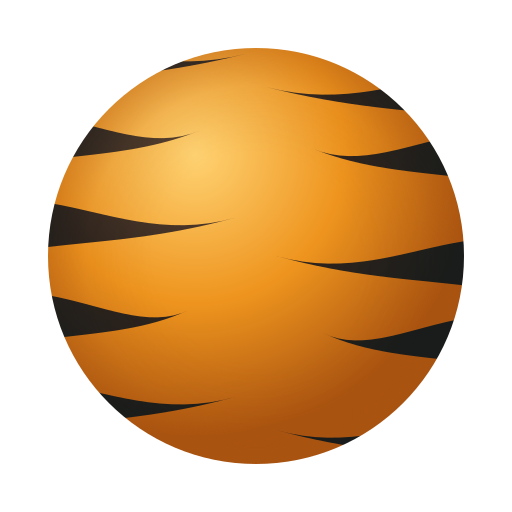
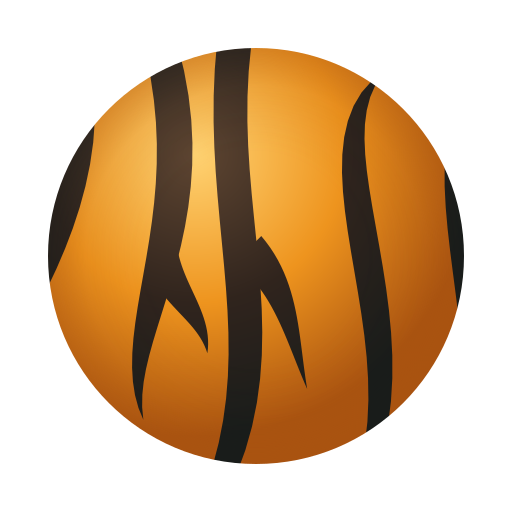
Refine tiger fur with long asymmetric branched stripes

Changed region(s): [[0.0938, 0.0938, 0.5938, 0.9062], [0.5625, 0.1562, 0.9062, 0.8438], [0.5938, 0.8438, 0.6875, 0.875]]

diff --git a/snake-style-config.js b/snake-style-config.js
@@ -1,2 +1,2 @@
 // Generated from the approved template specs. Run tools/export-snake-styles.cjs.
-(function(root){const config={"skins":["klassisk","jordgubbe","basketboll","isbla","rosa","lila","smaragd","regnbage","guld","polkagris","galax","vattenmelon","fotboll","miamisunset","inferno","aurora","hav","lava","obsidian","blackpink","skog","radioaktiv","plasma","clockwork","runorm","prismagodis","skuggmysterium","tidvatten","museumvaktaren","stjarnarkiv","solregent","stjarnhimmel","ghost","kunglig","hv71","eld","tiger","katt"],"rendering":{"minimumOpacity":0.75,"fadePerSegment":0.0125,"toyOutlineWidth":0.025,"toyOutlineOpacity":0.62,"toyShadowBlur":0.16,"toyShadowOffset":0.14,"shadowOpacity":0.48,"pixelShadowBlur":0.7,"pixelShadowOffset":1,"pixelFinalSmoothing":true},"headAttachment":{"center":[0.5,0.5],"radiusX":0.4671875,"radiusY":0.43,"eyes":[[0.3,0.29],[0.7,0.29]],"pixelEyes":[[0.3,0.34],[0.7,0.34]],"rearDecorationAnchors":[[0.17,0.68],[0.83,0.68]],"decorationMinimumY":0.6},"headAccessories":{"kunglig":"crown"},"animalProfiles":{"tiger":"feline","katt":"feline"},"tailAnimations":{"tiger":{"frames":["tail-left","tail-left-soft","tail","tail-right-soft","tail-right"],"periodMs":1400},"katt":{"frames":["tail-left","tail-left-soft","tail","tail-right-soft","tail-right"],"periodMs":1400}},"materialOpacities":{"ghost":0.68},"assetRevisions":{"inferno":2,"radioaktiv":2,"plasma":2,"hv71":4,"tiger":2,"katt":2},"colorCycles":{"regnbage":{"hues":[0,30,55,115,175,220,275],"intervalMs":1400}},"outlineColors":{"klassisk":"#10361d","jordgubbe":"#390d15","basketboll":"#43240f","isbla":"#103747","rosa":"#47233a","lila":"#302046","smaragd":"#12392e","regnbage":"#431919","guld":"#443214","polkagris":"#672036","galax":"#101828","vattenmelon":"#26352a","fotboll":"#252931","miamisunset":"#26314d","inferno":"#683b12","aurora":"#11192d","hav":"#0d3149","lava":"#17131e","obsidian":"#101020","blackpink":"#190f1c","skog":"#182c24","radioaktiv":"#06190f","plasma":"#080f24","clockwork":"#142022","runorm":"#192624","prismagodis":"#392742","skuggmysterium":"#111622","tidvatten":"#102c37","museumvaktaren":"#111c30","stjarnarkiv":"#101d34","solregent":"#552518","stjarnhimmel":"#11152b","ghost":"#1a526f","kunglig":"#261735","hv71":"#ffffff","eld":"#1d1424","tiger":"#30241d","katt":"#514337"},"styles":{"toy":{"frame":512,"headScale":1.12,"bodyScale":1.3608,"pivot":[256,64],"chord":188.76501370751944},"pixel":{"frame":32,"headScale":1.03,"bodyScale":1.3608,"pivot":[16,4],"chord":11}}};if(typeof module!=="undefined"&&module.exports)module.exports=config;else root.SnakeStyleConfig=config;})(typeof globalThis!=="undefined"?globalThis:this);
+(function(root){const config={"skins":["klassisk","jordgubbe","basketboll","isbla","rosa","lila","smaragd","regnbage","guld","polkagris","galax","vattenmelon","fotboll","miamisunset","inferno","aurora","hav","lava","obsidian","blackpink","skog","radioaktiv","plasma","clockwork","runorm","prismagodis","skuggmysterium","tidvatten","museumvaktaren","stjarnarkiv","solregent","stjarnhimmel","ghost","kunglig","hv71","eld","tiger","katt"],"rendering":{"minimumOpacity":0.75,"fadePerSegment":0.0125,"toyOutlineWidth":0.025,"toyOutlineOpacity":0.62,"toyShadowBlur":0.16,"toyShadowOffset":0.14,"shadowOpacity":0.48,"pixelShadowBlur":0.7,"pixelShadowOffset":1,"pixelFinalSmoothing":true},"headAttachment":{"center":[0.5,0.5],"radiusX":0.4671875,"radiusY":0.43,"eyes":[[0.3,0.29],[0.7,0.29]],"pixelEyes":[[0.3,0.34],[0.7,0.34]],"rearDecorationAnchors":[[0.17,0.68],[0.83,0.68]],"decorationMinimumY":0.6},"headAccessories":{"kunglig":"crown"},"animalProfiles":{"tiger":"feline","katt":"feline"},"tailAnimations":{"tiger":{"frames":["tail-left","tail-left-soft","tail","tail-right-soft","tail-right"],"periodMs":1400},"katt":{"frames":["tail-left","tail-left-soft","tail","tail-right-soft","tail-right"],"periodMs":1400}},"materialOpacities":{"ghost":0.68},"assetRevisions":{"inferno":2,"radioaktiv":2,"plasma":2,"hv71":4,"tiger":3,"katt":2},"colorCycles":{"regnbage":{"hues":[0,30,55,115,175,220,275],"intervalMs":1400}},"outlineColors":{"klassisk":"#10361d","jordgubbe":"#390d15","basketboll":"#43240f","isbla":"#103747","rosa":"#47233a","lila":"#302046","smaragd":"#12392e","regnbage":"#431919","guld":"#443214","polkagris":"#672036","galax":"#101828","vattenmelon":"#26352a","fotboll":"#252931","miamisunset":"#26314d","inferno":"#683b12","aurora":"#11192d","hav":"#0d3149","lava":"#17131e","obsidian":"#101020","blackpink":"#190f1c","skog":"#182c24","radioaktiv":"#06190f","plasma":"#080f24","clockwork":"#142022","runorm":"#192624","prismagodis":"#392742","skuggmysterium":"#111622","tidvatten":"#102c37","museumvaktaren":"#111c30","stjarnarkiv":"#101d34","solregent":"#552518","stjarnhimmel":"#11152b","ghost":"#1a526f","kunglig":"#261735","hv71":"#ffffff","eld":"#1d1424","tiger":"#30241d","katt":"#514337"},"styles":{"toy":{"frame":512,"headScale":1.12,"bodyScale":1.3608,"pivot":[256,64],"chord":188.76501370751944},"pixel":{"frame":32,"headScale":1.03,"bodyScale":1.3608,"pivot":[16,4],"chord":11}}};if(typeof module!=="undefined"&&module.exports)module.exports=config;else root.SnakeStyleConfig=config;})(typeof globalThis!=="undefined"?globalThis:this);

diff --git a/skin-templates/runtime-preview.html b/skin-templates/runtime-preview.html
@@ -7,7 +7,7 @@
 *{box-sizing:border-box}body{margin:0;padding:24px;background:#f5f0e4;color:#183b35;font:16px system-ui,sans-serif}main{max-width:1160px;margin:auto}h1{margin:0 0 8px;font-size:26px}p{line-height:1.5}button{font:inherit;padding:8px 14px;border:1px solid #789184;border-radius:10px;background:#fffaf0;color:inherit;cursor:pointer}article{margin:22px 0;padding:20px;border:1px solid #cdd6c9;border-radius:18px;background:#fffaf0}h2{margin:0 0 12px;font-size:23px}.styles{display:grid;grid-template-columns:1fr 1fr;gap:22px}h3{margin:0 0 8px;font-size:16px}canvas{display:block;width:100%;height:auto;background:#e4edde;border-radius:12px;image-rendering:auto}.note{margin:12px 0 0;font-size:13px;color:#456057}@media(max-width:650px){body{padding:12px}.styles{grid-template-columns:1fr}article{padding:14px}}
 </style>
 <main><h1>SifferSnoken · riktiga skinpreviews</h1><p>Samma WebP-filer, former, ögon och svansfästen som i spelet. Utan längdnedtoning; Ghost behåller sin genomskinlighet.</p><button id="pause">Pausa animationen</button> <label id="tailControl" hidden>Svansläge <select id="tailPose"><option value="animated">Animation</option><option value="left">Vänster</option><option value="left-soft">Lite vänster</option><option value="center">Mittläge</option><option value="right-soft">Lite höger</option><option value="right">Höger</option></select></label><div id="previews"></div><p id="status" role="status">Laddar tillgångar…</p></main>
-<script src="../snake-style-config.js?v=snake-styles-25"></script>
+<script src="../snake-style-config.js?v=snake-styles-26"></script>
 <script src="../snake-colors.js?v=snake-styles-4"></script>
 <script src="../snake-headwear-designs.js?v=headwear-3"></script>
 <script src="../snake-headwear.js?v=headwear-3"></script>

diff --git a/skin-templates/headwear-preview.html b/skin-templates/headwear-preview.html
@@ -6,7 +6,7 @@
 *{box-sizing:border-box}body{margin:0;padding:24px;background:#f5f0e4;color:#183b35;font:16px system-ui,sans-serif}main{max-width:1080px;margin:auto}h1{font-size:26px;margin:0 0 10px}p{line-height:1.5}article{background:#fffaf0;border:1px solid #cdd6c9;border-radius:18px;padding:20px;margin:22px 0}h2{margin:0 0 14px}h3{font-size:16px;margin:0 0 8px}.styles{display:grid;grid-template-columns:1fr 1fr;gap:20px}canvas{display:block;width:100%;height:auto;border-radius:12px}label{display:inline-flex;gap:6px;margin-right:14px}@media(max-width:650px){body{padding:12px}.styles{grid-template-columns:1fr}article{padding:14px}}
 </style>
 <main><h1>Alla 30 huvudbonader · passformsprov</h1><p>Klassisk, Jordgubbe och Ghost, i alla fyra riktningar. Samma renderer och fästpunkter som i spelet. Ögon och huvudstorlekar är oförändrade.</p><label><input type="checkbox" id="blink">Visa blinkning</label><label><input type="checkbox" id="off">Utan bonad</label><div id="previews"></div><p id="status">Laddar…</p></main>
-<script src="../snake-style-config.js?v=snake-styles-25"></script>
+<script src="../snake-style-config.js?v=snake-styles-26"></script>
 <script src="../snake-colors.js?v=snake-styles-4"></script>
 <script src="../snake-headwear-designs.js?v=headwear-3"></script>
 <script src="../snake-headwear.js?v=headwear-3"></script>

diff --git a/skin-templates/headwear-gallery.html b/skin-templates/headwear-gallery.html
@@ -4,7 +4,7 @@
 <main><h1>SifferSnoken · alla 30 huvudbonader</h1><p>Modern och Pixelretro · samma huvud och renderer som i spelet.</p>
 <label>Skin <select id="skin"><option value="klassisk">Klassisk</option><option value="jordgubbe">Jordgubbe</option><option value="ghost">Ghost</option></select></label><label>Riktning <select id="direction"><option value="right">Höger</option><option value="up">Upp</option><option value="down">Ned</option><option value="left">Vänster</option></select></label><label><input type="checkbox" id="blink">Blinkning</label>
 <h2>Modern · mjuka leksaksformer</h2><canvas id="toy" width="1120" height="760"></canvas><h2>Pixelretro</h2><canvas id="pixel" width="1120" height="760"></canvas><p id="status">Laddar…</p></main>
-<script src="../snake-style-config.js?v=snake-styles-25"></script><script src="../snake-colors.js?v=snake-styles-4"></script>
+<script src="../snake-style-config.js?v=snake-styles-26"></script><script src="../snake-colors.js?v=snake-styles-4"></script>
 <script src="../snake-headwear-designs.js?v=headwear-3"></script><script src="../snake-headwear.js?v=headwear-3"></script><script src="../snake-styles.js?v=snake-styles-11"></script>
 <script>
 const renderer=SnakeStyles.createRenderer({assetPrefix:'../'});

diff --git a/index.html b/index.html
@@ -1102,7 +1102,7 @@ body[data-graphics="pixel"] #c,body[data-graphics="pixel"] .skin-canvas-wrap can
 
 <script src="translations.js?v=3.12-boards-1"></script>
 <script src="board-backgrounds.js?v=2"></script>
-<script src="snake-style-config.js?v=snake-styles-25"></script>
+<script src="snake-style-config.js?v=snake-styles-26"></script>
 <script src="snake-colors.js?v=snake-styles-4"></script>
 <script src="snake-headwear-designs.js?v=headwear-3"></script>
 <script src="snake-headwear.js?v=headwear-3"></script>

diff --git a/skin-templates/README.md b/skin-templates/README.md
@@ -173,11 +173,11 @@ Kunglig har lila skulpterad volym med två öppna gyllene brokadslingor och små
 
 ## Tiger och Katt: delad djurmall
 
-`animalProfile: feline` använder `tools/feline-templates.cjs` och `snake-spec.json` för exakt samma små bakåtsatta öron och smala böjda svans på Tiger/Katt. Huvudbas, ögon, huvudskala och kroppsmask är oförändrade. Tiger har orange skulpterat material med tio böjda, avsmalnande och förskjutna mörka kroppsränder för klassisk tigerpäls; Katt har crème-/sandfärgat material med två asymmetriska pälsfält. Separata `head-ears` och `head-face` är genomskinliga WebP-lager. Pixel rasteriseras nativt, inte genom skalning av Modern-bilder.
+`animalProfile: feline` använder `tools/feline-templates.cjs` och `snake-spec.json` för exakt samma små bakåtsatta öron och smala böjda svans på Tiger/Katt. Huvudbas, ögon, huvudskala och kroppsmask är oförändrade. Tiger revision 3 har orange skulpterat material med fem långa, ojämnt böjda mörka kroppsränder och två korta förgreningar, efter användarens fotografiska tigerförlaga. Olika bredder, längder och avsmalnande spetsar ersätter de tidigare spegelvända kantmarkeringarna. Katt har crème-/sandfärgat material med två asymmetriska pälsfält. Separata `head-ears` och `head-face` är genomskinliga WebP-lager. Pixel rasteriseras nativt, inte genom skalning av Modern-bilder.
 
-Fem svansbilder (`tail-left`, `tail-left-soft`, `tail`, `tail-right-soft`, `tail-right`) böjer den smala svansen utan att flytta basen eller rotera fästkanten. Utslaget är 2,4 gånger större än första djurversionen och cykeln 1,4 sekunder; hela fästkragen förblir stilla och inga poser klipps i källbilden. Den fasta kragen använder mallens vanliga fästbredd och kord. Varje pose sätts ihop med sista kroppsdelen och cachas per riktning innan gemensam alpha/skugga. Bara dessa två skins använder `tailAnimations`; reducerad rörelse visar mittläget. Kroppsmönstren är fasta. `assetRevision: 2` versionshämtar just dessa teman. Gamla assets, Original och befintliga upplåsningskrav bevaras.
+Fem svansbilder (`tail-left`, `tail-left-soft`, `tail`, `tail-right-soft`, `tail-right`) böjer den smala svansen utan att flytta basen eller rotera fästkanten. Utslaget är 2,4 gånger större än första djurversionen och cykeln 1,4 sekunder; hela fästkragen förblir stilla och inga poser klipps i källbilden. Den fasta kragen använder mallens vanliga fästbredd och kord. Varje pose sätts ihop med sista kroppsdelen och cachas per riktning innan gemensam alpha/skugga. Bara dessa två skins använder `tailAnimations`; reducerad rörelse visar mittläget. Kroppsmönstren är fasta. `assetRevision` är 3 för Tiger och 2 för Katt; bara korrigerade teman versionshämtas. Gamla assets, Original och befintliga upplåsningskrav bevaras.
 
-Kontroll: `tests/feline-templates.test.cjs`, raster-/masktester och renderercachetester. Preview: `runtime-preview.html?skins=tiger` och `?skins=katt` visar båda stilar och kan pausa animationen eller välja ett av de fem svanslägena. Revision 2 är kontrollerad på desktop och 390 px mobil med 33 segment, gemensam nedtoning och separat verklig rörelse/sväng i båda lägena. Alla tio testsviter samt alpha-/palettkontrollen av 499 WebP-tillgångar passerar. Huvudbonadernas passform är oförändrad från föregående djurrunda.
+Kontroll: `tests/feline-templates.test.cjs`, raster-/masktester och renderercachetester. Preview: `runtime-preview.html?skins=tiger` och `?skins=katt` visar båda stilar och kan pausa animationen eller välja ett av de fem svanslägena. Katt revision 2 och Tiger revision 3 är kontrollerade på desktop och 390 px mobil med 33 segment, gemensam nedtoning och separat verklig rörelse/sväng i båda lägena. Alla tio testsviter samt alpha-/palettkontrollen av 499 WebP-tillgångar passerar. Ett regressionstest säkrar långa kroppsränder även inne i Pixelretros native cirkelmask. Huvudbonadernas passform är oförändrad från föregående djurrunda.
 
 ### Sagoskogen, Blodmåne och kantpassager
 

diff --git a/CHANGELOG.md b/CHANGELOG.md
@@ -2,6 +2,13 @@
 
 ## 2026-10-05
 
+### Tiger: pälsmönster efter användarens fotografiska förlaga
+
+- Ersätter de korta spegelvända kantmarkeringarna med fem långa, ojämnt böjda ränder och två korta anslutande förgreningar. Olika bredd, längd och invändiga avsmalnande spetsar ger ett mer naturligt tigerpälsmönster.
+- Samma motiv byggs som skulpterat material i Modern och native sexfärgspixelgrafik i Pixelretro. Kroppens cirkelmask, huvud/öron, svansbilder och den förstärkta svansvickningen är oförändrade.
+- Tiger revision 3 och ny konfigurationsadress hämtar rätt WebP-version. Katt, andra skins, Original och upplåsningar ändras inte. Inga nya shaders, per-bildruta-mönster eller extra kroppsbilder tillkommer.
+- Kontrollerat i båda lägena på desktop/390 px mobil, med 33 segment och separat verklig rörelse/sväng. Alla tio testsviter och rasterkontrollen av 499 WebP-tillgångar passerar; långrandig native pixelgrafik har ett eget regressionstest.
+
 ### Tiger: tätare ränder och tydligare svansvickning
 
 - Tiger har tio böjda, avsmalnande och förskjutna kroppsränder i stället för sex. Huvud, öron, rund kroppskontur och svansfäste är oförändrade.
